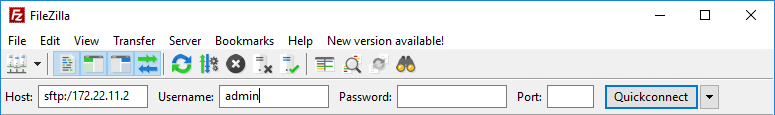
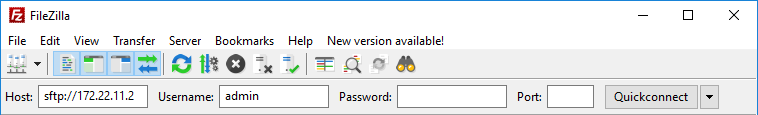
Modified README.md
1. Add example and bitfile links. 
2. Add pictures.

diff --git a/README.md b/README.md
@@ -5,9 +5,9 @@ In this document we will walk you through setup, transfer of files, and the use 
 Time Configuration Setup
 --------
 In this session we will setup the time configuration of the NI ELVIS III.
-1. **Open** a browser and visit the NI ELVIS III configuration website: <IP Address of NI ELVIS III>/WIF.html<br />
+1. **Open** a browser and visit the NI ELVIS III configuration website: \<IP Address of NI ELVIS III\>/WIF.html<br />
    :exclamation: IP Address can be found at the top of the NI ELVIS III
-2. **Click**   (at the left hand side of the webiste).
+2. **Click**  ![](https://github.com/ni-kismet/NI-ELVIS-III-Python/blob/master/docs/resource/time_configuration.png) (at the left hand side of the webiste).
 3. **Change** the date and time to current time based on your current time zone.
 4. **Click** Save.
 
@@ -18,7 +18,10 @@ In this section we will install the software needed to communicate to the NI ELV
 2. **Connect** the NI ELVIS III using USB or to the internet using the Ethernet Port or the WIFI.
 3. **Install** and open your favorite SSH client. If you do not have one, we recommend PuTTY: https://the.earth.li/~sgtatham/putty/latest/w32/putty.exe
     - **Configure** PuTTY or another client as follows:
-        - Host Name: _[IP Address of NI ELVIS III]_
+    
+        ![](https://github.com/ni-kismet/NI-ELVIS-III-Python/blob/master/docs/resource/putty.png)
+        
+        - Host Name: \<IP Address of NI ELVIS III\>
         - Port: 22
         - Connection Type: SSH
     - **Press** “Open”
@@ -43,15 +46,18 @@ In this section we will transfer an FPGA Bitfile and the Python Example program 
 1. **Download** and **Install** FileZilla: https://filezilla-project.org/download.php 
 2. **Log Into** the NI ELVIS III in FileZilla:
     - **Configuration**:
-        * Host Name: sftp://_[IP Address of NI ELVIS III]_
+        
+        ![](https://github.com/ni-kismet/NI-ELVIS-III-Python/blob/master/docs/resource/filezilla.png)
+        
+        * Host Name: sftp://\<IP Address of NI ELVIS III\>
         * Username: admin
         * Password: (Just hit enter, there is no password by default)
     - **Press** “Quickconnect”
-3. **Navigate** to the /home/admin directory using: `cd /home/admin`
-4. **Download** the “NIELVISIIIPythonExamples.zip”
-5. **Extract** the Example files.
-6. **Drag** the “ELVIS III v1.1 FPGA.lvbitx” Bitfile into the directory in FileZilla.
-7. **Drag** the Python files into the same directory as the Bitfile in FileZilla.
+3. **Navigate** to the /home/admin directory
+    
+    ![](https://github.com/ni-kismet/NI-ELVIS-III-Python/blob/master/docs/resource/home_directory.png)
+    
+4. **Upload** the [ELVIS III v1.1 FPGA.lvbitx](https://github.com/ni-kismet/NI-ELVIS-III-Python/tree/master/bitfile) Bitfile and [Python examples](https://github.com/ni-kismet/NI-ELVIS-III-Python/tree/master/source) into the directory `/home/admin` in FileZilla.
 
 Running the Example
 --------
@@ -66,9 +72,33 @@ Open a Session
 Session, a convenient wrapper around the NI ELVIS III controlling APIs.
 Example session usage:
 ```
-with NIELVISIIIAcademicIO.AnalogInput({'bank': bank,
-                                       'channel': channel,
-                                       'differential': mode}) 
-                                                             as AI_single_channel:
+with academicIO.AnalogInput({'bank': bank,
+                             'channel': channel,
+                             'mode': mode}) as AI_single_channel:
 ```
 It is always recommended that you use a Session with a context manager (with). Opening a Session without a context manager could cause you to leak the session if : `Session.close` is not called.
+
+Function Select Register 
+--------
+| NI ELVIS III | DIO | PWM | Encoder | SPI | I2C | UART | 
+|:------------:|:-----------:|:-----------:|:---------------:|:-----------:|:------------------------:|:----------:| 
+| DIO 0        | DIO 0       | PWM 0       | ENC.A 0         |             |                          |            | 
+| DIO 1        | DIO 1       | PWM 1       | ENC.B 0         |             |                          |            | 
+| DIO 2        | DIO 2       | PWM 2       | ENC.A 1         |             |                          |            | 
+| DIO 3        | DIO 3       | PWM 3       | ENC.B 1         |             |                          |            | 
+| DIO 4        | DIO 4       | PWM 4       | ENC.A 2         |             |                          |            | 
+| DIO 5        | DIO 5       | PWM 5       | ENC.B 2         | SPI.CLK     |                          |            | 
+| DIO 6        | DIO 6       | PWM 6       | ENC.A 3         | SPI.MISO    |                          |            | 
+| DIO 7        | DIO 7       | PWM 7       | ENC.B 3         | SPI.MOSI    |                          |            | 
+| DIO 8        | DIO 8       | PWM 8       | ENC.A 4         |             |                          |            | 
+| DIO 9        | DIO 9       | PWM 9       | ENC.B 4         |             |                          |            | 
+| DIO 10       | DIO 10      | PWM 10      | ENC.A 5         |             |                          |            | 
+| DIO 11       | DIO 11      | PWM 11      | ENC.B 5         |             |                          |            | 
+| DIO 12       | DIO 12      | PWM 12      | ENC.A 6         |             |                          |            | 
+| DIO 13       | DIO 13      | PWM 13      | ENC.B 6         |             |                          |            | 
+| DIO 14       | DIO 14      | PWM 14      | ENC.A 7         |             | I2C.SCL                  |            | 
+| DIO 15       | DIO 15      | PWM 15      | ENC.B 7         |             | I2C.SDA                  |            | 
+| DIO 16       | DIO 16      | PWM 16      | ENC.A 8         |             |                          | UART.RX    | 
+| DIO 17       | DIO 17      | PWM 17      | ENC.B 8         |             |                          | UART.TX    | 
+| DIO 18       | DIO 18      | PWM 18      | ENC.A 9         |             |                          |            | 
+| DIO 19       | DIO 19      | PWM 19      | ENC.B 9         |             |                          |            |
